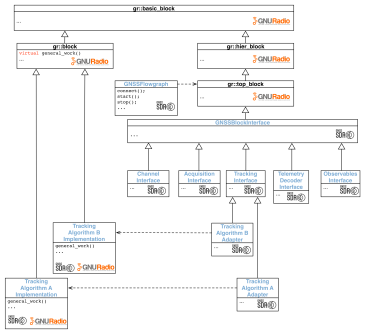
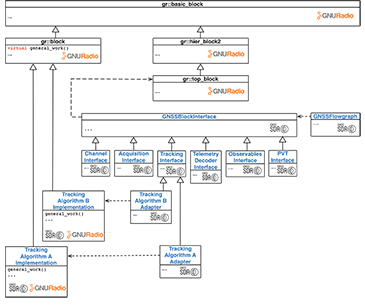
Fix class relationship description in Fundamentals page (see #71)

Changed region(s): [[0.0, 0.0, 0.9945, 1.0], [0.874, 0.5, 0.9945, 0.6176]]

diff --git a/_docs/03-fundamentals.md b/_docs/03-fundamentals.md
@@ -8,7 +8,7 @@ header:
   invert-colors: true
 toc: true
 toc_sticky: true
-last_modified_at: 2021-02-10T11:54:02+02:00
+last_modified_at: 2022-10-01T11:54:02+02:00
 ---
 
 As a matter of fact, GNSS baseband signal processing requires a high
@@ -223,14 +223,14 @@ _`ClassA` inherits from `ClassB`._
 
 A key aspect of an object-oriented software design is how classes relate to each
 other. In the GNU Radio framework,
-[`gr::basic_block`](https://github.com/gnuradio/gnuradio/blob/master/gnuradio-runtime/include/gnuradio/basic_block.h)
+[`gr::basic_block`](https://github.com/gnuradio/gnuradio/blob/main/gnuradio-runtime/include/gnuradio/basic_block.h)
 is the abstract base class for all signal processing blocks, a bare abstraction
 of an entity that has a name and a set of inputs and outputs. It is never
 instantiated directly; rather, this is the abstract parent class of both
-[`gr::hier_block2`](https://github.com/gnuradio/gnuradio/blob/master/gnuradio-runtime/include/gnuradio/hier_block2.h),
+[`gr::hier_block2`](https://github.com/gnuradio/gnuradio/blob/main/gnuradio-runtime/include/gnuradio/hier_block2.h),
 which is a recursive container that adds or removes processing or hierarchical
 blocks to the internal graph,  and
-[`gr::block`](https://github.com/gnuradio/gnuradio/blob/master/gnuradio-runtime/include/gnuradio/block.h),
+[`gr::block`](https://github.com/gnuradio/gnuradio/blob/main/gnuradio-runtime/include/gnuradio/block.h),
 which is the abstract base class for all the processing blocks. A signal
 processing flow is constructed by creating a tree of hierarchical blocks, which
 at any level may also contain terminal nodes that actually implement signal
@@ -240,22 +240,25 @@ processing functions:
 _GNU Radio's class hierarchy._
 {: style="text-align: center;"}
 
-
-Class
-[`gr::top_block`](https://github.com/gnuradio/gnuradio/blob/master/gnuradio-runtime/include/gnuradio/top_block.h)
+The class
+[`gr::top_block`](https://github.com/gnuradio/gnuradio/blob/main/gnuradio-runtime/include/gnuradio/top_block.h)
 is the top-level hierarchical block representing a flow graph. It defines GNU
 Radio runtime functions used during the execution of the program: `run()`,
-`start()`, `stop()`, `wait()`, etc. As shown in the figure below, a subclass
-called
+`start()`, `stop()`, `wait()`, etc. It is used for defining the receiver
+flow graph (that is, the interconnections within all the required blocks)
+according to the configuration (more on that in the description of the [Control
+Plane]({{"/docs/control-plane/" | relative_url }})).
+
+The class called
 [`GNSSBlockInterface`](https://github.com/gnss-sdr/gnss-sdr/blob/main/src/core/interfaces/gnss_block_interface.h)
 is the common interface for all the GNSS-SDR modules. It defines pure
-**virtual** methods, that are required to be implemented by a derived class:
+**virtual** methods, that are required to be implemented by a derived class.
 
-![Block interface]({{ "/assets/images/block-interface.png" | relative_url }}){:width="500px"}{: .align-center .invert-colors}
-_`GNSSBlockInterface` inherits from `gr::top_block`._
+![Block interface]({{ "/assets/images/block-interface.png" | relative_url }}){: .align-center .invert-colors}
+_Block interface for all Signal Processing blocks._
 {: style="text-align: center;"}
 
-.**Definition:** Classes containing pure virtual methods are termed _abstract_;
+**Definition:** Classes containing pure virtual methods are termed _abstract_;
 they cannot be instantiated directly, and a subclass of an abstract class can
 only be instantiated directly if all inherited pure virtual methods have been
 implemented by that class or a parent class.
@@ -283,14 +286,16 @@ signal acquisition requires an _adapter_ ensuring it meets a minimal
 [AcquisitionInterface](https://github.com/gnss-sdr/gnss-sdr/blob/main/src/core/interfaces/acquisition_interface.h),
 and the actual implementation in form of GNU Radio processing block (that is,
 inheriting from
-[`gr::block`](https://github.com/gnuradio/gnuradio/blob/master/gnuradio-runtime/include/gnuradio/block.h)).
+[`gr::block`](https://github.com/gnuradio/gnuradio/blob/main/gnuradio-runtime/include/gnuradio/block.h)).
 
 **Example:** An available implementation of an Acquisition block is called
-`GPS_L1_CA_DLL_PLL_Tracking`. Like any other Acquisition block, it has an
-adapter that inherits from
+[`GPS_L1_CA_PCPS_Acquisition`]({{
+"/docs/sp-blocks/acquisition/#implementation-gps_l1_ca_pcps_acquisition" |
+relative_url }}). Like any other Acquisition block, it has an adapter that
+inherits from
 [AcquisitionInterface](https://github.com/gnss-sdr/gnss-sdr/blob/main/src/core/interfaces/acquisition_interface.h)
 and the corresponding GNU Radio block inheriting from
-[`gr::block`](https://github.com/gnuradio/gnuradio/blob/master/gnuradio-runtime/include/gnuradio/block.h)
+[`gr::block`](https://github.com/gnuradio/gnuradio/blob/main/gnuradio-runtime/include/gnuradio/block.h)
 and implementing the actual processing. You can take a look at the source code:
 
 * Adapter interface: [gnss-sdr/src/algorithms/acquisition/adapters/gps_l1_ca_pcps_acquisition.h](https://github.com/gnss-sdr/gnss-sdr/blob/main/src/algorithms/acquisition/adapters/gps_l1_ca_pcps_acquisition.h)
